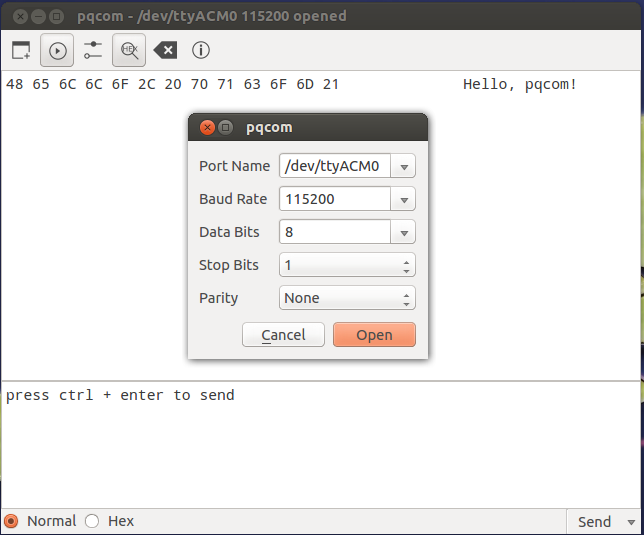
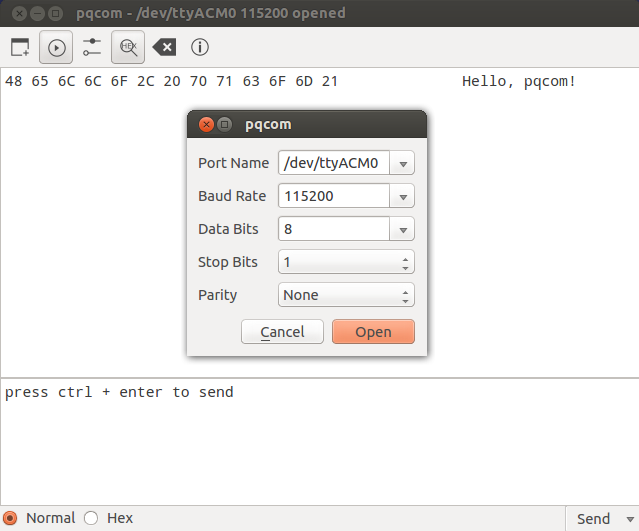
changes for windows

Changed region(s): [[0.0, 0.0, 1.0, 1.0], [0.2379, 0.7232, 0.3865, 0.7533], [0.2973, 0.5424, 0.3865, 0.5725]]

diff --git a/pqcom.py b/pqcom.py
@@ -12,21 +12,11 @@ import pqcom_about_ui
 from PySide.QtGui import *
 from PySide.QtCore import *
 from cStringIO import StringIO
-import string
-from PySide import QtSvg, QtXml
+from util import resource_path, TRANS_TABLE
 
 DEFAULT_EOF = '\n'
-TRANS_STRING = ''.join(chr(i) for i in range(0, 0x20) + range(0x80, 0x100))
-TRANS_TABLE = string.maketrans(TRANS_STRING, ''.ljust(len(TRANS_STRING), '.'))
-
 worker = None
 
-
-script_path = os.path.dirname(os.path.realpath(sys.argv[0]))
-
-def resource_path(relative_path):
-    base_path = getattr(sys, '_MEIPASS', script_path)
-    return os.path.join(base_path, relative_path)
     
 class AboutDialog(QDialog, pqcom_about_ui.Ui_Dialog):
     def __init__(self, parent=None):
@@ -90,12 +80,12 @@ class MainWindow(QMainWindow, Ui_MainWindow):
         parameters = self.setupDialog.get()
         self.setWindowTitle('pqcom - ' + parameters[0] + ' ' + str(parameters[1]))
 
-        self.actionNew.setIcon(QIcon(resource_path('img/new.svg')))
-        self.actionSetup.setIcon(QIcon(resource_path('img/settings.svg')))
-        self.actionRun.setIcon(QIcon(resource_path('img/run.svg')))
-        self.actionHex.setIcon(QIcon(resource_path('img/hex.svg')))
-        self.actionClear.setIcon(QIcon(resource_path('img/clear.svg')))
-        self.actionAbout.setIcon(QIcon(resource_path('img/about.svg')))
+        self.actionNew.setIcon(QIcon(resource_path('img/new.png')))
+        self.actionSetup.setIcon(QIcon(resource_path('img/settings.png')))
+        self.actionRun.setIcon(QIcon(resource_path('img/run.png')))
+        self.actionHex.setIcon(QIcon(resource_path('img/hex.png')))
+        self.actionClear.setIcon(QIcon(resource_path('img/clear.png')))
+        self.actionAbout.setIcon(QIcon(resource_path('img/about.png')))
 
         self.actionUseCR = QAction('EOL - \\r', self)
         self.actionUseCR.setCheckable(True)

diff --git a/pqcom_about_ui.py b/pqcom_about_ui.py
@@ -8,6 +8,7 @@
 # WARNING! All changes made in this file will be lost!
 
 from PySide import QtCore, QtGui
+from util import resource_path
 
 class Ui_Dialog(object):
     def setupUi(self, Dialog):
@@ -31,7 +32,7 @@ class Ui_Dialog(object):
 "<html><head><meta name=\"qrichtext\" content=\"1\" /><style type=\"text/css\">\n"
 "p, li { white-space: pre-wrap; }\n"
 "</style></head><body style=\" font-family:\'SimSun\'; font-size:9pt; font-weight:400; font-style:normal;\">\n"
-"<p style=\" margin-top:16px; margin-bottom:0px; margin-left:16px; margin-right:16px; -qt-block-indent:0; text-indent:0px;\"><br /><img src=\"img/pqcom-logo-expanded.png\" height=\"64\" /></p>\n"
+"<p style=\" margin-top:16px; margin-bottom:0px; margin-left:16px; margin-right:16px; -qt-block-indent:0; text-indent:0px;\"><br /><img src=\"" + resource_path("img/pqcom-logo-expanded.png") + "\" height=\"64\" /></p>\n"
 "<p style=\"-qt-paragraph-type:empty; margin-top:0px; margin-bottom:0px; margin-left:0px; margin-right:0px; -qt-block-indent:0; text-indent:0px;\"><br /></p>\n"
 "<p style=\" margin-top:16px; margin-bottom:16px; margin-left:16px; margin-right:16px; -qt-block-indent:0; text-indent:0px;\">pqcom, a simple cross platform serial tool.<br /><br />Author:      Yihui Xiong<br />Home:        <a href=\"https://github.com/xiongyihui/pqcom\"><span style=\" text-decoration: underline; color:#0000ff;\">https://github.com/xiongyihui/pqcom</span></a><br />License:     MIT</p></body></html>", None, QtGui.QApplication.UnicodeUTF8))
 

diff --git a/util.py b/util.py
@@ -1,0 +1,14 @@
+
+import sys
+import os
+import string
+
+TRANS_STRING = ''.join(chr(i) for i in range(0, 0x20) + range(0x80, 0x100))
+TRANS_TABLE = string.maketrans(TRANS_STRING, ''.ljust(len(TRANS_STRING), '.'))
+
+
+script_path = os.path.dirname(os.path.realpath(sys.argv[0]))
+
+def resource_path(relative_path):
+    base_path = getattr(sys, '_MEIPASS', script_path)
+    return os.path.join(base_path, relative_path)
